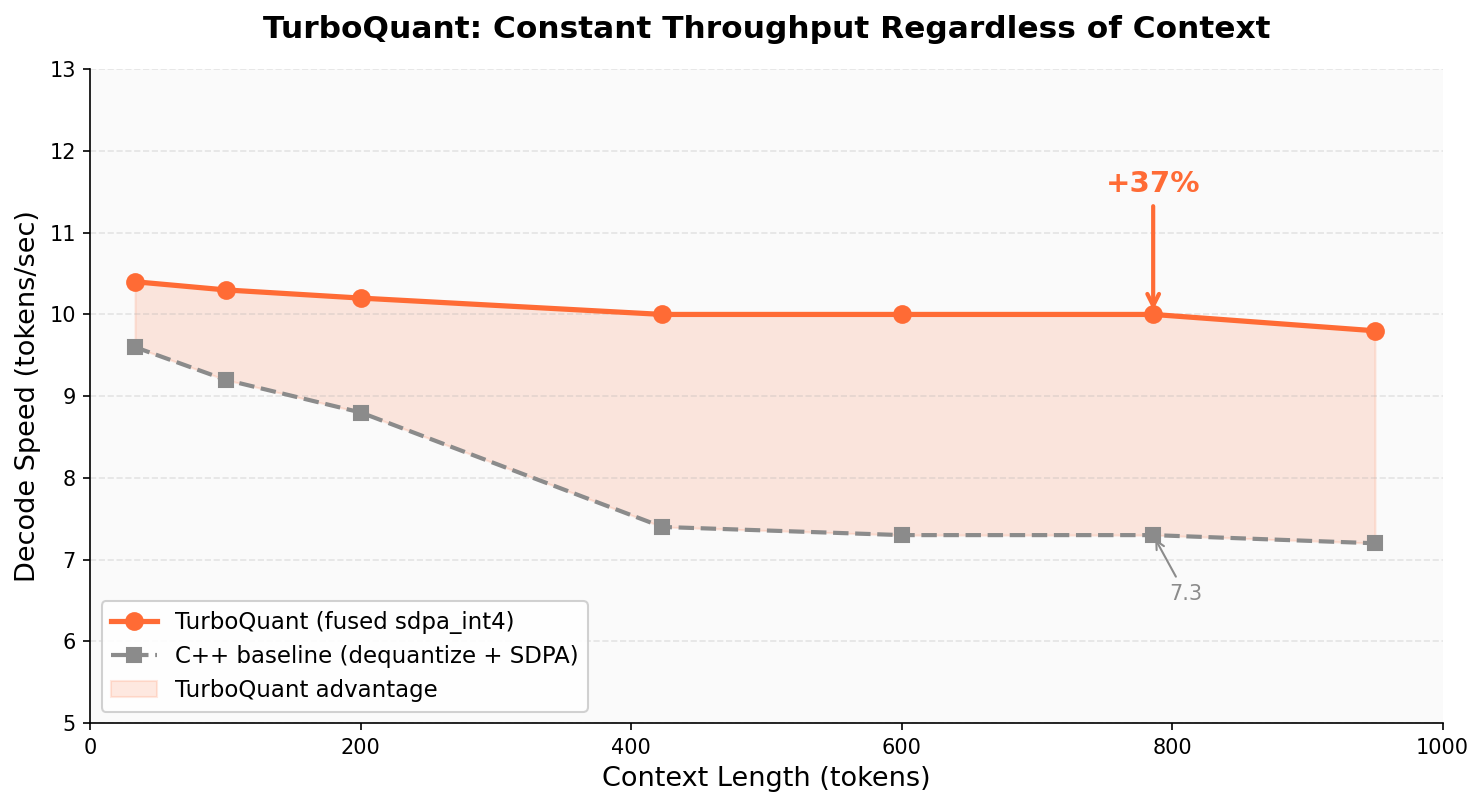
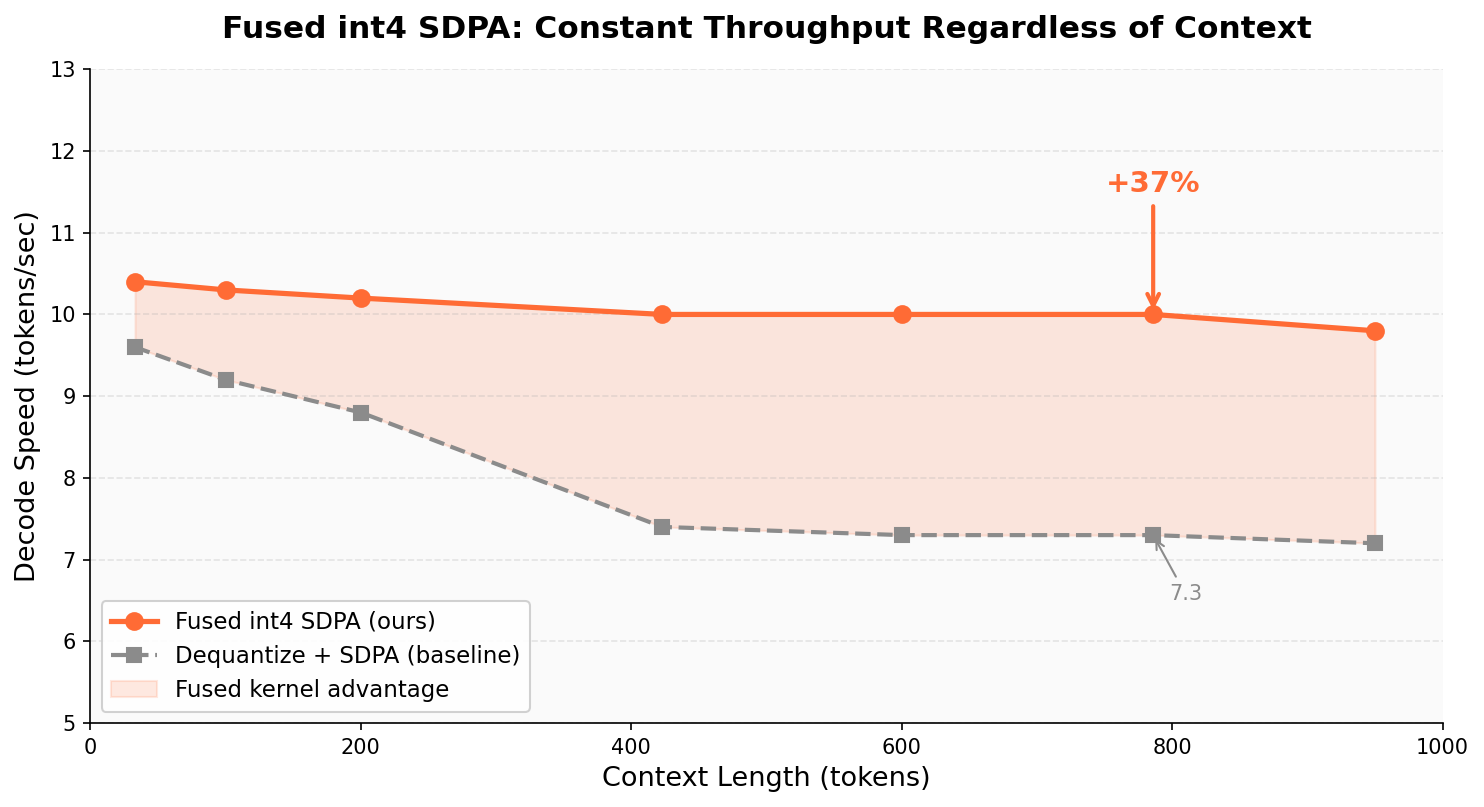
fix assets and add license

Changed region(s): [[0.155, 0.0, 0.8989, 0.062], [0.124, 0.7435, 0.403, 0.8674]]

diff --git a/assets/generate_charts.py b/assets/generate_charts.py
@@ -31,9 +31,9 @@ tq_tps   = [10.4, 10.3, 10.2, 10.0, 10.0, 10.0, 9.8]
 base_tps = [9.6,  9.2,  8.8,  7.4,  7.3,  7.3,  7.2]
 mlx_tps  = [15.0, 14.8, 14.5, 14.0, 13.5, 13.0, 12.5]  # estimated from mlx-lm behavior
 
-ax.plot(ctx, tq_tps, 'o-', color=TQ_COLOR, linewidth=2.5, markersize=8, label='TurboQuant (fused sdpa_int4)', zorder=3)
-ax.plot(ctx, base_tps, 's--', color=BASELINE_COLOR, linewidth=2, markersize=7, label='C++ baseline (dequantize + SDPA)', zorder=2)
-ax.fill_between(ctx, base_tps, tq_tps, alpha=0.15, color=TQ_COLOR, label='TurboQuant advantage')
+ax.plot(ctx, tq_tps, 'o-', color=TQ_COLOR, linewidth=2.5, markersize=8, label='Fused int4 SDPA (ours)', zorder=3)
+ax.plot(ctx, base_tps, 's--', color=BASELINE_COLOR, linewidth=2, markersize=7, label='Dequantize + SDPA (baseline)', zorder=2)
+ax.fill_between(ctx, base_tps, tq_tps, alpha=0.15, color=TQ_COLOR, label='Fused kernel advantage')
 
 # Annotate the 37% speedup
 ax.annotate('+37%', xy=(786, 10.0), xytext=(786, 11.5),
@@ -44,7 +44,7 @@ ax.annotate('7.3', xy=(786, 7.3), fontsize=10, color=BASELINE_COLOR, ha='center'
 
 ax.set_xlabel('Context Length (tokens)', fontsize=13)
 ax.set_ylabel('Decode Speed (tokens/sec)', fontsize=13)
-ax.set_title('TurboQuant: Constant Throughput Regardless of Context', fontsize=15, fontweight='bold', pad=15)
+ax.set_title('Fused int4 SDPA: Constant Throughput Regardless of Context', fontsize=15, fontweight='bold', pad=15)
 ax.set_ylim(5, 13)
 ax.set_xlim(0, 1000)
 ax.legend(loc='lower left', fontsize=11, framealpha=0.9)
